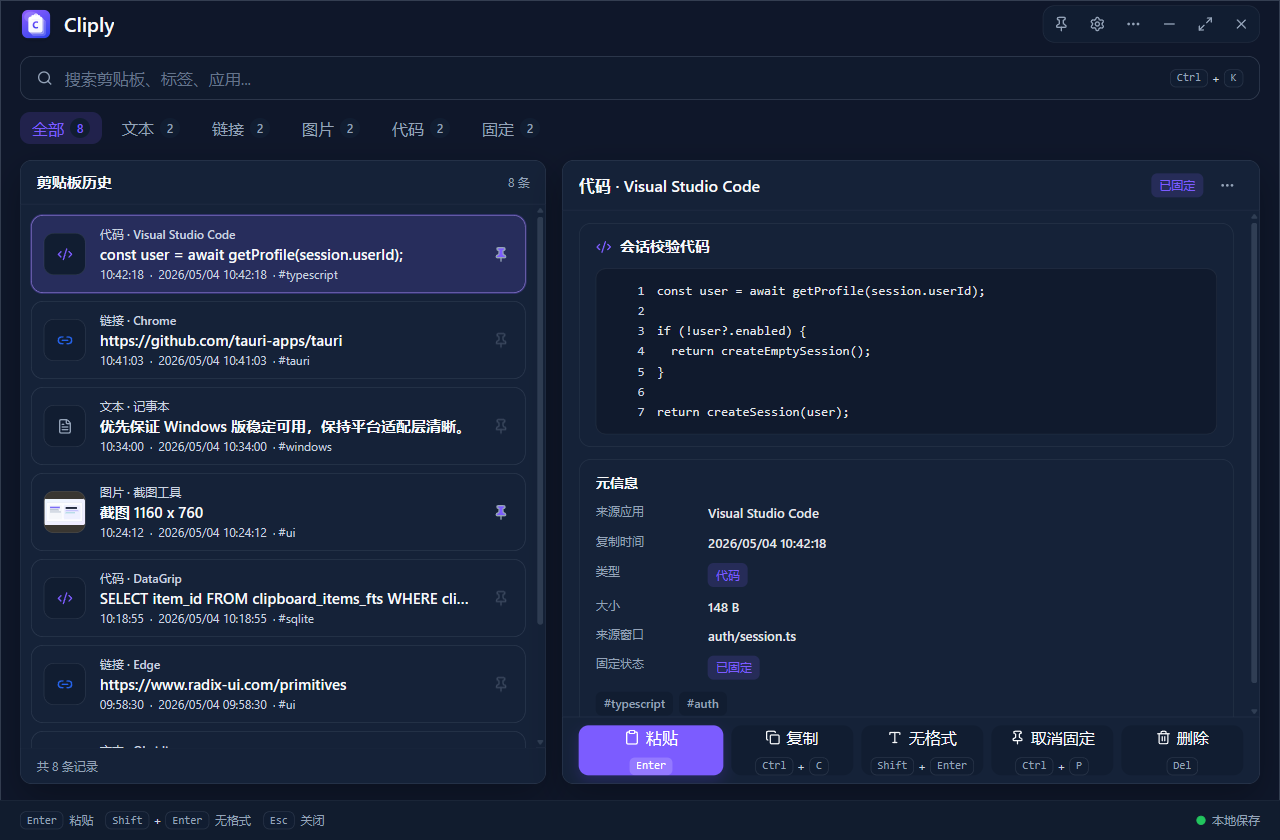
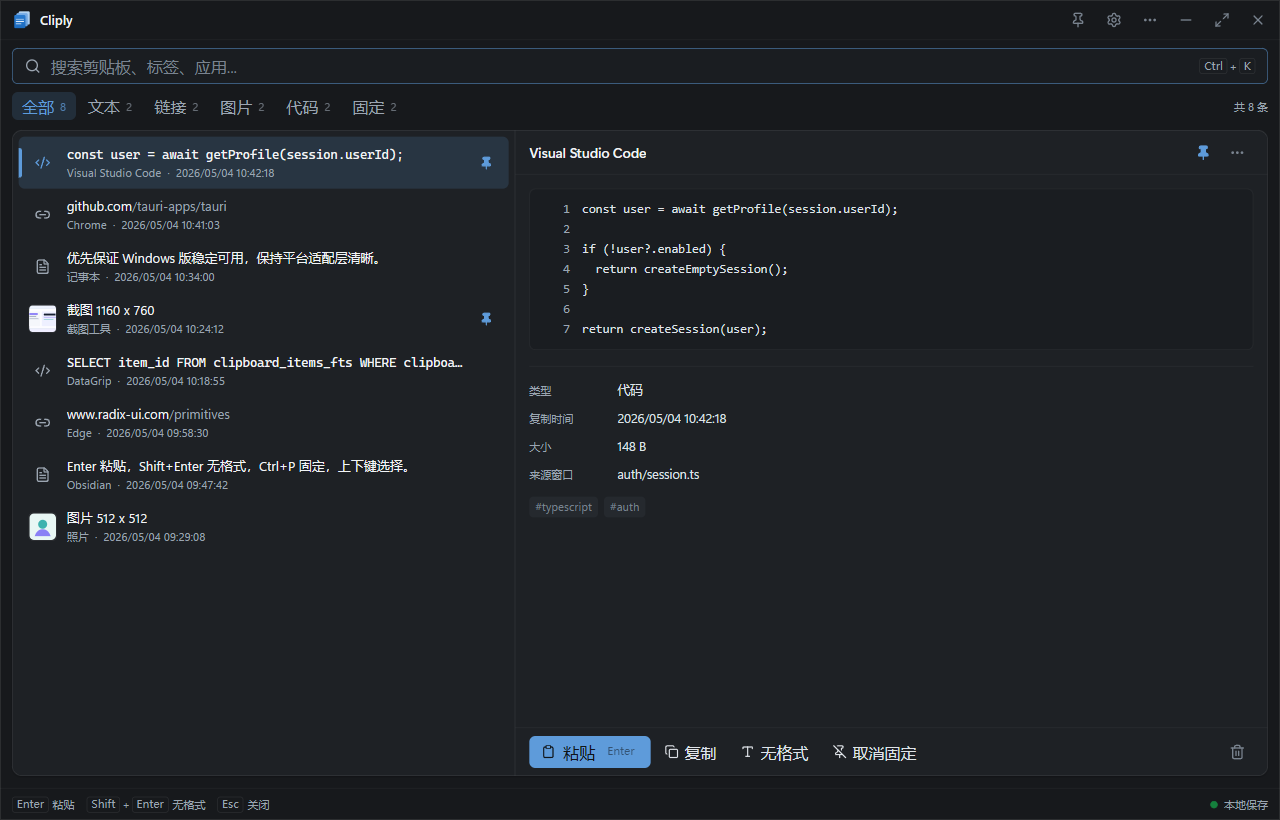
docs: refresh README screenshots

diff --git a/src-tauri/src/services/remote_sync_service.rs b/src-tauri/src/services/remote_sync_service.rs
@@ -304,7 +304,12 @@ fn export_remote_snapshot(
     record_imported_snapshot(&connection, &snapshot_path)?;
 
     let mut snapshot_paths = list_snapshot_paths(provider.as_ref())?;
-    match prune_device_snapshots(provider.as_ref(), &snapshot_paths, &device_id, &snapshot_path) {
+    match prune_device_snapshots(
+        provider.as_ref(),
+        &snapshot_paths,
+        &device_id,
+        &snapshot_path,
+    ) {
         Ok(removed) if !removed.is_empty() => {
             snapshot_paths.retain(|path| !removed.contains(path));
             logger::info(
@@ -1059,7 +1064,10 @@ fn prune_device_snapshots(
         .filter(|path| path.ends_with(&device_suffix))
         .collect();
 
-    if !device_snapshots.iter().any(|path| *path == just_written_path) {
+    if !device_snapshots
+        .iter()
+        .any(|path| *path == just_written_path)
+    {
         // The listing missed the file we just wrote (eventual consistency);
         // skip pruning this round rather than risk deleting the newest data.
         return Ok(Vec::new());
